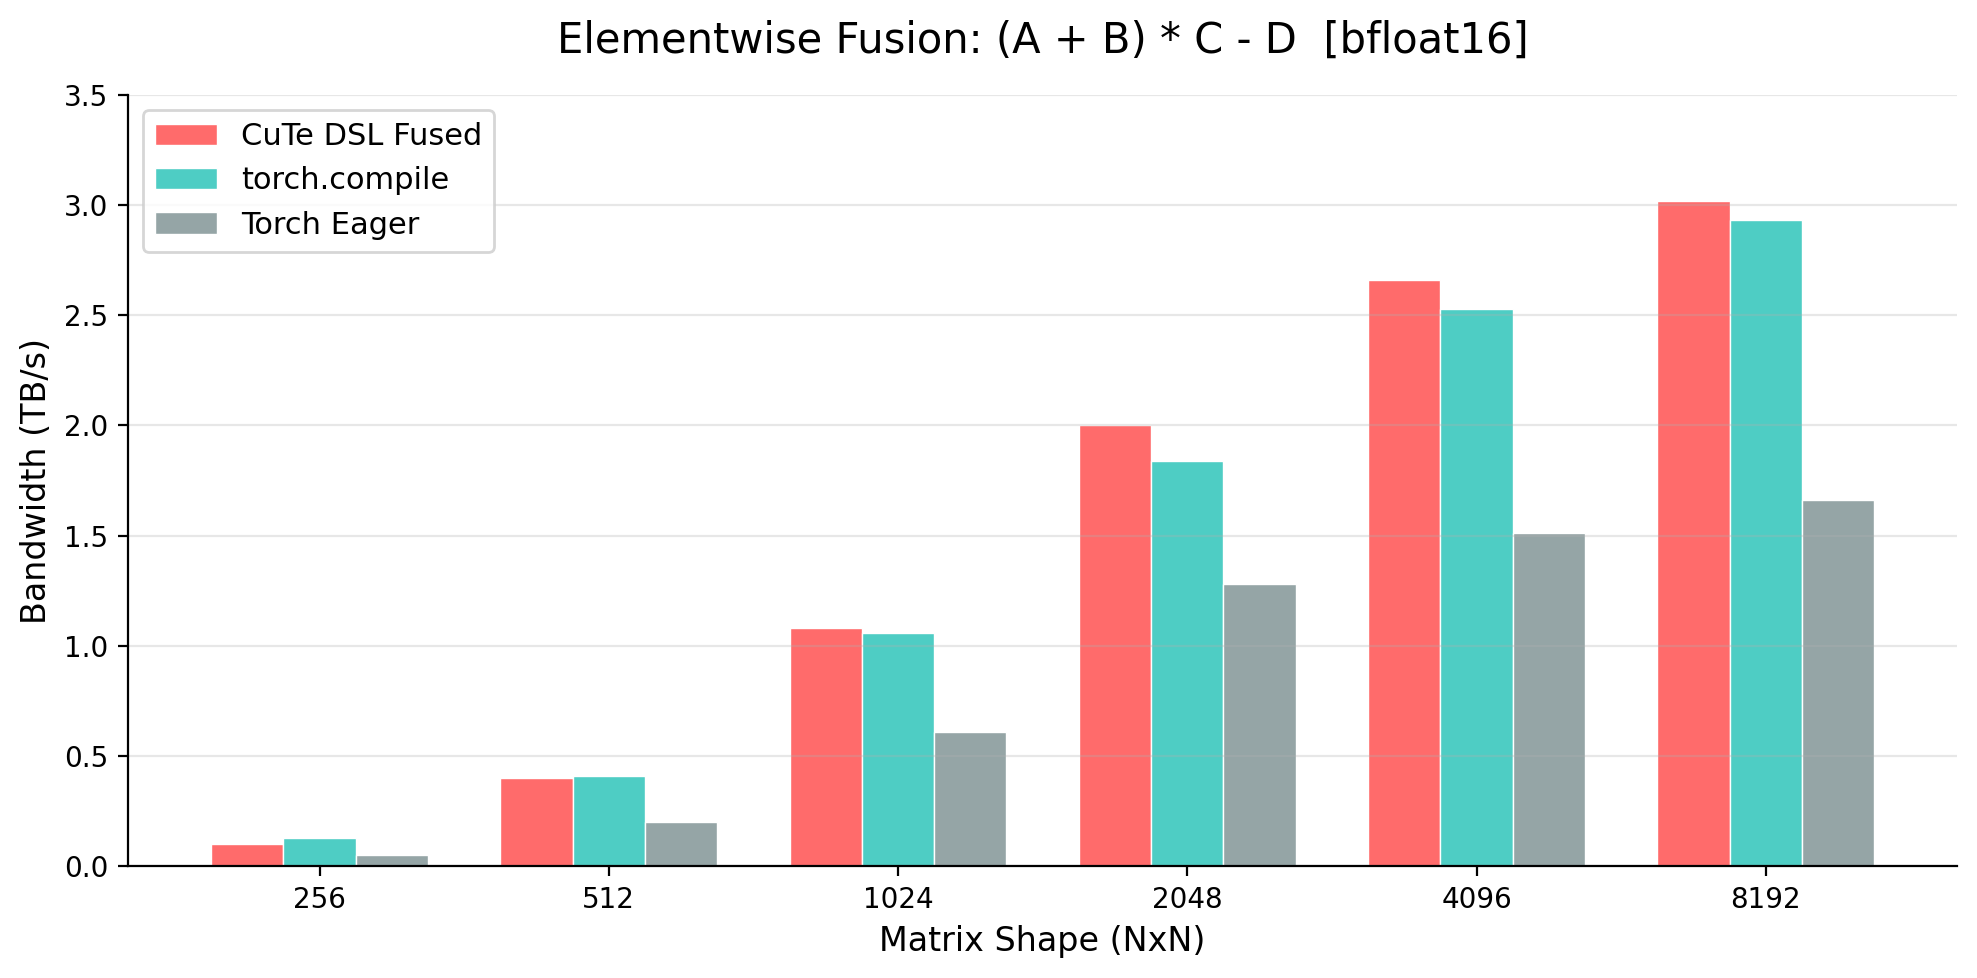
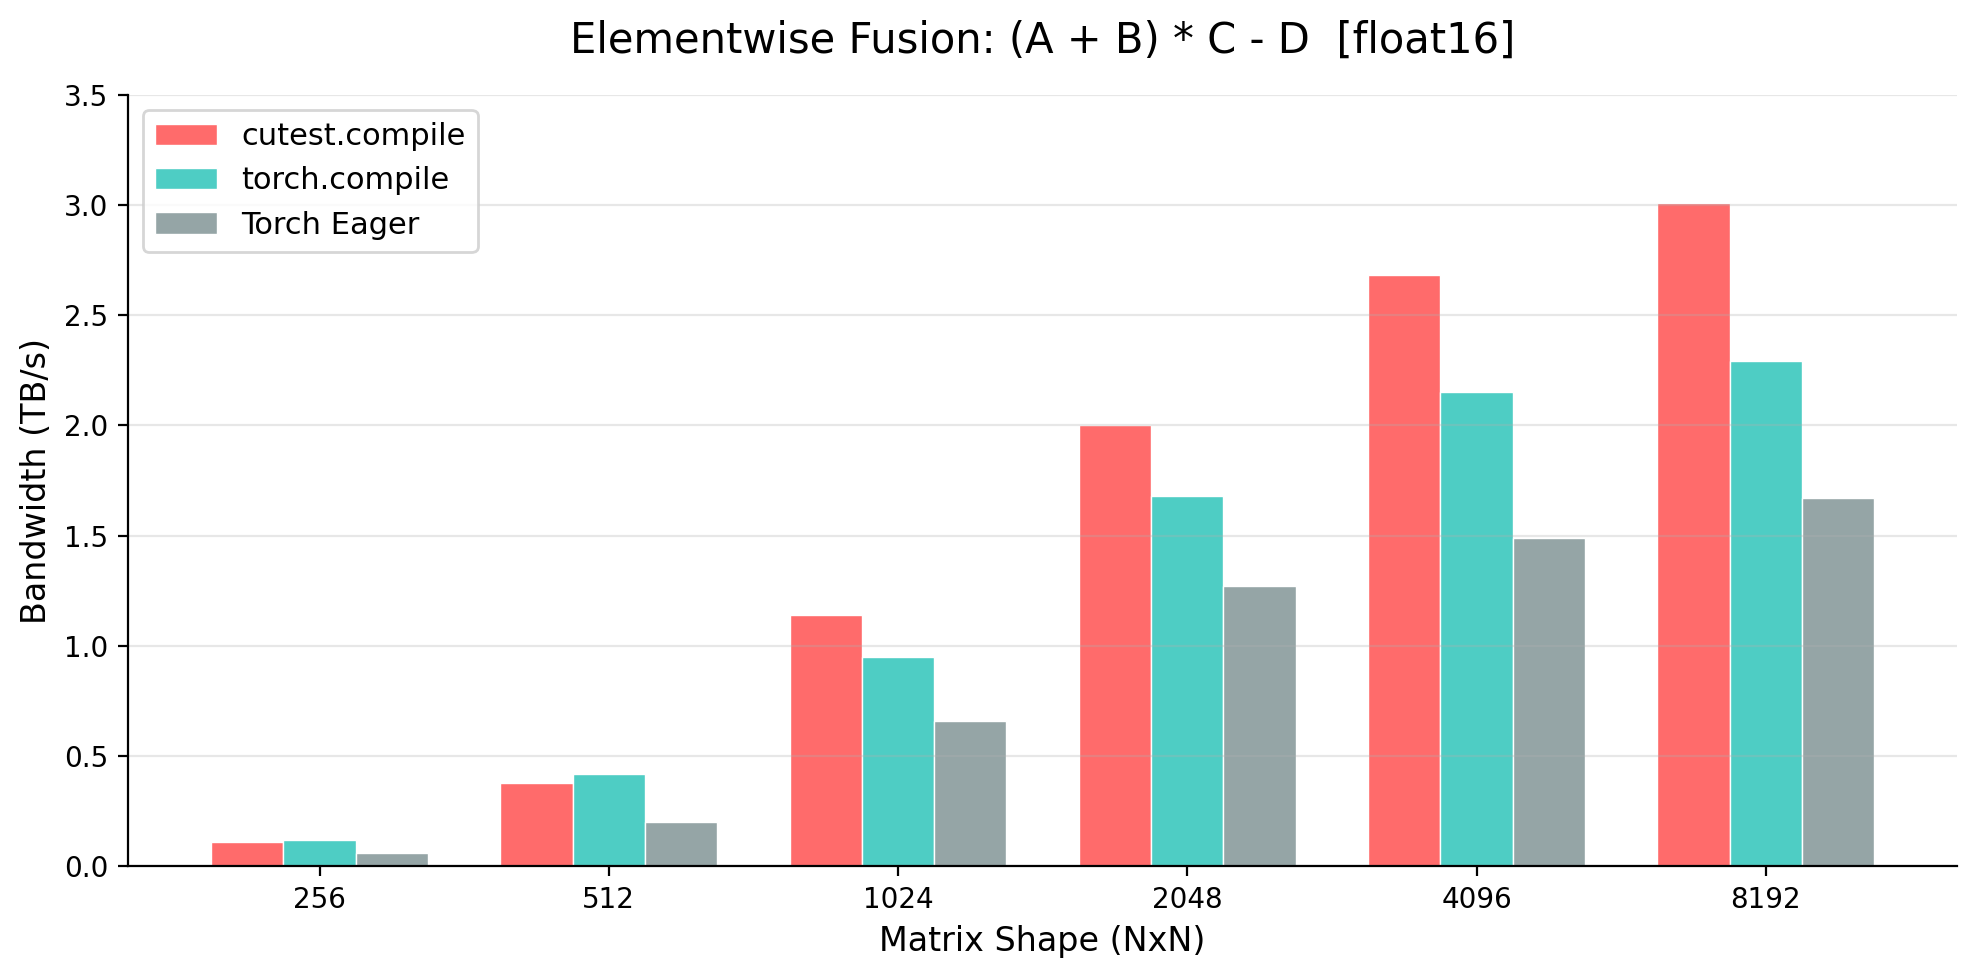
minor

diff --git a/bench_fuse.py b/bench_fuse.py
@@ -16,7 +16,7 @@ torch_compiled = torch.compile(torch_eager)
 
 def bench_fuse():
     shapes = [256, 512, 1024, 2048, 4096, 8192]
-    dtype = torch.bfloat16
+    dtype = torch.float16
 
     # Header
     print(
@@ -40,7 +40,7 @@ def bench_fuse():
         # Verify correctness
         expected = torch_eager(a, b, c, d)
         result = fused_fn(a, b, c, d)
-        # torch.testing.assert_close(result, expected, atol=1e-4, rtol=1e-4)
+        torch.testing.assert_close(result, expected, atol=1e-2, rtol=1e-2)
 
         # Warmup torch.compile
         for _ in range(5):

diff --git a/cutest/compiler/execute.py b/cutest/compiler/execute.py
@@ -101,6 +101,7 @@ def compile(tensor):
     n_inputs = len(ir.inputs)
 
     def _run(*inputs: torch.Tensor) -> torch.Tensor:
+        assert len(inputs) == n_inputs, f"Expected {n_inputs} inputs, got {len(inputs)}"
         out = torch.empty_like(inputs[0])
         fn(*inputs, out)
         return out

diff --git a/README.md b/README.md
@@ -6,4 +6,4 @@ Elementwise kernel fuser built on NVIDIA CuTe DSL. Traces a computation graph an
 
 ![Benchmark](assets/bench_fuse.png)
 
-`(A + B) * C - D` fused into one kernel, bfloat16, benchmarked against `torch.compile` and PyTorch eager on H100.
+`(A + B) * C - D` fused into one kernel, float16, benchmarked against `torch.compile` and PyTorch eager on H100.
